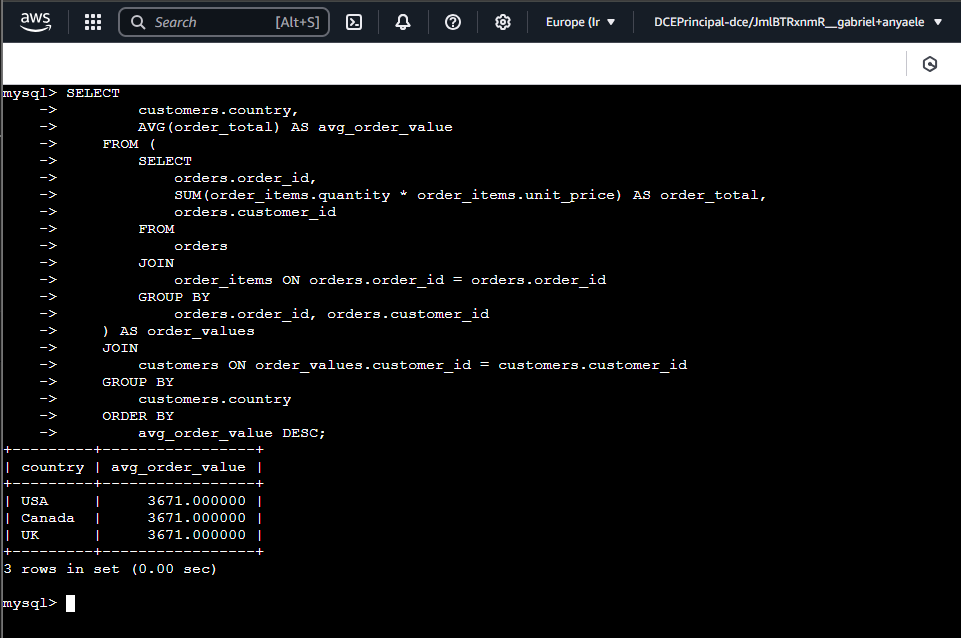
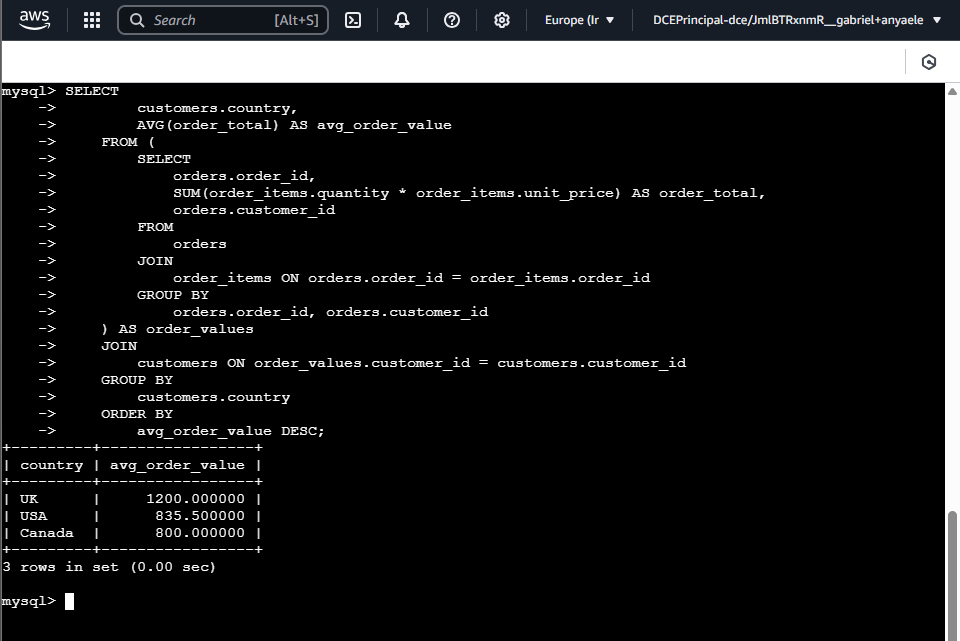
add avg order by country

Changed region(s): [[0.0, 0.0, 1.0, 1.0]]

diff --git a/simple_api_rds_exercise/queries.py b/simple_api_rds_exercise/queries.py
@@ -63,7 +63,7 @@ get_avg_order_by_country ="""
         FROM 
             orders
         JOIN 
-            order_items ON orders.order_id = orders.order_id
+            order_items ON orders.order_id = order_items.order_id
         GROUP BY 
             orders.order_id, orders.customer_id
     ) AS order_values
